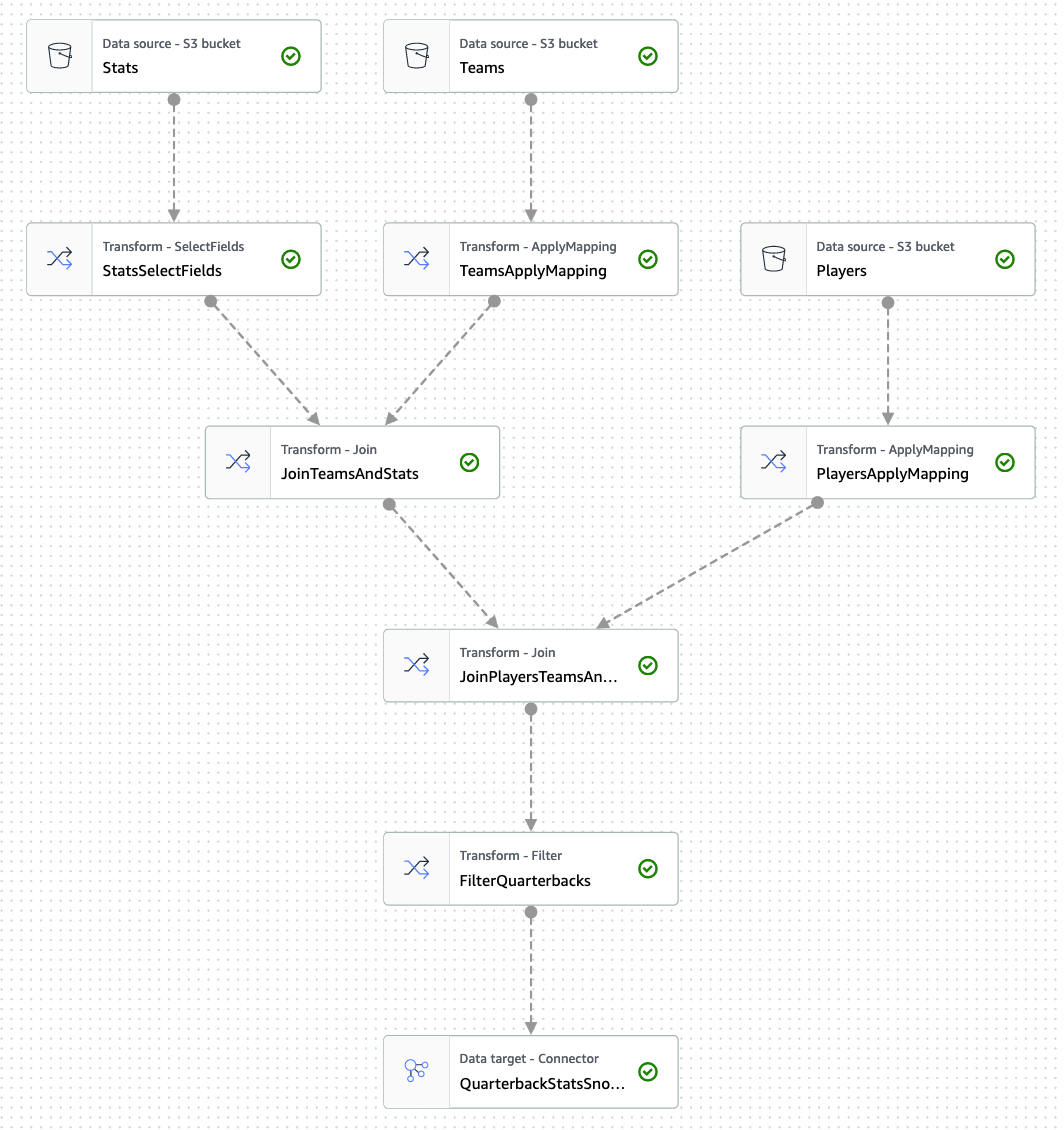
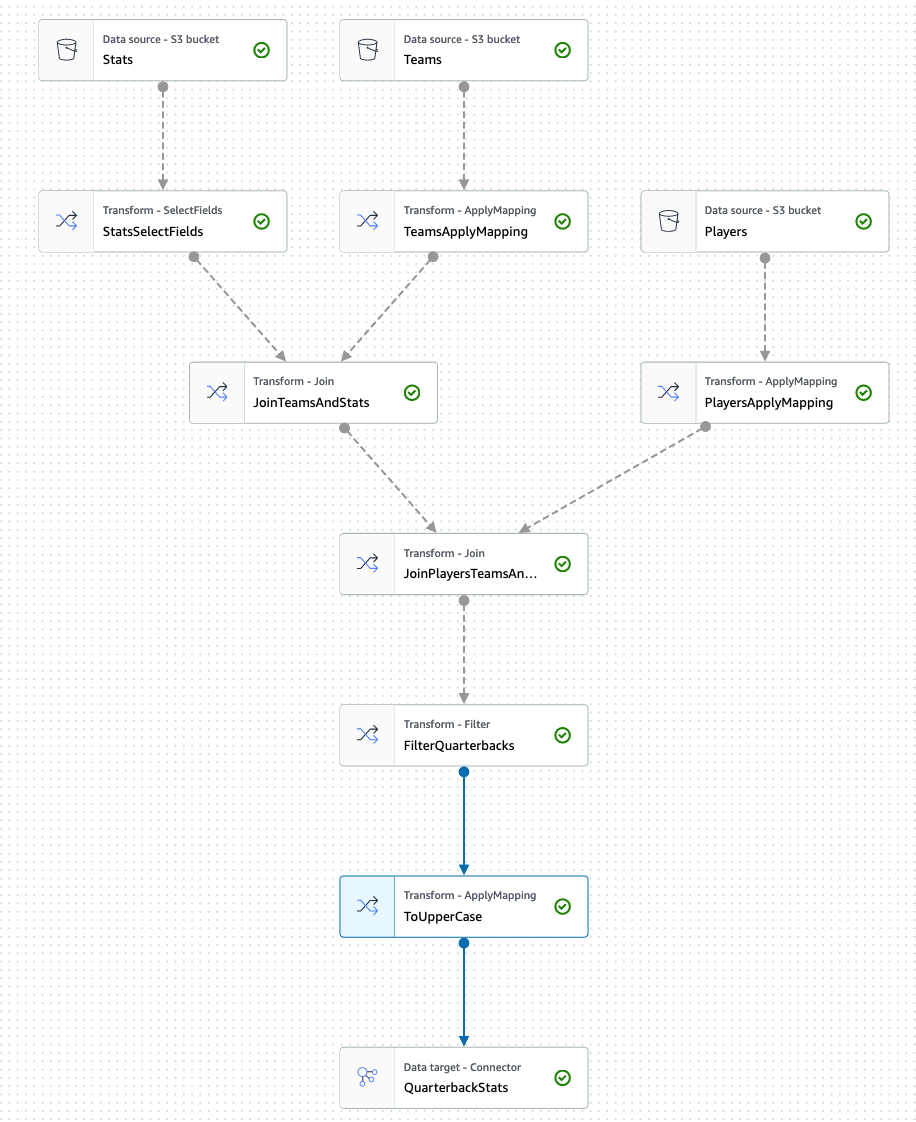
Update Transform data for Snowflake needed uppercase

Changed region(s): [[0.0, 0.0, 0.9782, 0.9982], [0.4279, 0.3431, 0.4585, 0.3743]]

diff --git a/resources/code/infra/lib/glue-studio-snowflake-stack.ts b/resources/code/infra/lib/glue-studio-snowflake-stack.ts
@@ -25,8 +25,35 @@ export class GlueStudioSnowflakeStack extends cdk.Stack {
       ),
       managedPolicies: [
         iam.ManagedPolicy.fromAwsManagedPolicyName("service-role/AWSGlueServiceRole")
+      ],
+      inlinePolicies: {
+        LakeFormationPermissionPolicy: new iam.PolicyDocument({
+          statements: [
+            new iam.PolicyStatement({
+              effect: iam.Effect.ALLOW,
+              actions: [
+                "lakeformation:GetDataAccess",
+                "lakeformation:GrantPermissions"
+              ],
+              resources: [
+                "*"
+              ]
+            })
+          ]
+      })}
+    });
+
+    const passGlueRolePolicy = new iam.PolicyStatement({
+      effect: iam.Effect.ALLOW,
+      actions: [
+        'iam:PassRole'
+      ],
+      resources: [
+        glueRole.roleArn
       ]
     });
+
+    glueRole.addToPolicy(passGlueRolePolicy);
 
     new cdk.CfnOutput(this, 'GlueRole', { value: glueRole.roleArn })
 
@@ -102,7 +129,7 @@ export class GlueStudioSnowflakeStack extends cdk.Stack {
         "CONNECTOR_CLASS_NAME": "net.snowflake.client.jdbc.SnowflakeDriver",
         "CONNECTOR_TYPE": "Jdbc",
         "CONNECTOR_URL": "s3://" + workingBucket.bucketName + "/" + props.jdbcDriver,
-        "JDBC_CONNECTION_URL": "[[\"default=jdbc:snowflake://" + props.snowflakeAccount + "." + cdk.Aws.REGION + ".snowflakecomputing.com/?user=${Username}&password=${Password}&warehouse=${warehouse}\"],\"&\"]"
+        "JDBC_CONNECTION_URL": "[[\"default=jdbc:snowflake://" + props.snowflakeAccount + "." + cdk.Aws.REGION + ".aws.snowflakecomputing.com/?user=${Username}&password=${Password}&warehouse=${warehouse}\"],\"&\"]"
       }
     });
 

diff --git a/workshop/content/TransformData/BuildETL.en.md b/workshop/content/TransformData/BuildETL.en.md
@@ -125,15 +125,26 @@ Now that you have the S3 target setup you can jump down to the Job Details secti
 
 #### Snowflake
 
+For Snowflake, we need to do one more transformation before sending the data set to Snowflake. All Columns in the data set need to be upper case in order for the insert to succeed. So we need to create one more **Apply Mapping** transform to make all columns uppercase.
+
+From the **Transform** dropdown select the `Apply Mapping` transform.
+
+* On the **Node Properties** tab select the following:
+  * **Name** type `ToUpperCase`
+  * **Node parents** select the `FilterQuarterbacks` node.
+* On the **Transform** tab each column needs to be upper case for example, `pass_yds` would be converted to `PASS_YDS`. Each column needs to be modified in the **Target Key** textbox and the **Data Type** can be left alone.
+
+Now that we have set the columns appropriately we can create the target to Snowflake.
+
 From the **Target** dropdown select the `snowflake-jdbc-glue-connector` target.
 
 * On the **Node Properties** tab select the following:
   * **Name** type `QuarterbackStatsSnowflake`
   * **Node type** if not selected select `snowflake-jdbc-glue-connector`
-  * **Node parents** select the `FilterQuarterbacks` node.
+  * **Node parents** select the `ToUpperCase` node.
 * On the **Data target properties** tab we are to perist to Snowflake.
   * **Connection** select the connection you created earlier named `snowflake-jdbc-glue-connection`.
-  * **Table** type `quarterback_stats` in the textbox.
+  * **Table** type `QUARTERBACK_STATS` in the textbox.
 
 ![Snowflake](/images/glue-snowflake-target.png)
 
@@ -230,7 +241,7 @@ Transform2 = Filter.apply(frame = Transform5, f = lambda row : (row["p_positioni
 ## @args: [connection_type = "custom.jdbc", connection_options = {"dbTable":"quarterback_stats","connectionName":"snowflake-jdbc-glue-connection"}, transformation_ctx = "DataSink0"]
 ## @return: DataSink0
 ## @inputs: [frame = Transform2]
-DataSink0 = glueContext.write_dynamic_frame.from_options(frame = Transform2, connection_type = "custom.jdbc", connection_options = {"dbTable":"quarterback_stats","connectionName":"snowflake-jdbc-glue-connection"}, transformation_ctx = "DataSink0")
+DataSink0 = glueContext.write_dynamic_frame.from_options(frame = Transform2, connection_type = "custom.jdbc", connection_options = {"dbTable":"QUARTERBACK_STATS","connectionName":"snowflake-jdbc-glue-connection"}, transformation_ctx = "DataSink0")
 job.commit()
 
 ```

diff --git a/workshop/content/ManageData/AssignPermissions.en.md b/workshop/content/ManageData/AssignPermissions.en.md
@@ -27,7 +27,7 @@ Starting where we left off in the last section, we want to see if our current us
 
 ![AthenaError](/images/athena-lf-error.png)
 
-3. Let's work on fixing this for the `players` table first and then we can apply the same concepts to the `teams` and `stats` tables to make them available to be queried. With the radio button on the `players` row selected drop down the **Action** dropdown button again, but this time under the **Permissions** section click `Grant`. This will bring up the dialog to grant access to the table for your user like below. For the **IAM Users and Roles** dropdown select the role `FILLINTHEBLANK`, and in the **Table Permissions** section check the `Select` and `Describe` checkboxes to give read access to the table.
+3. Let's work on fixing this for the `players` table first and then we can apply the same concepts to the `teams` and `stats` tables to make them available to be queried. With the radio button on the `players` row selected drop down the **Action** dropdown button again, but this time under the **Permissions** section click `Grant`. This will bring up the dialog to grant access to the table for your user like below. For the **IAM Users and Roles** dropdown select the role `FILLINTHEBLANK` and the `GlueExecutionRole` from the CDK script, and in the **Table Permissions** section check the `Select` and `Describe` checkboxes to give read access to the table.
 
 ![GrantComplete](/images/lf-grant-complete.png)
 

diff --git a/workshop/content/Setup/SnowflakeSetup.en.md b/workshop/content/Setup/SnowflakeSetup.en.md
@@ -1,0 +1,9 @@
++++
+copyright = "Copyright Amazon.com, Inc. or its affiliates. All Rights Reserved."
+spdx-license-identifier = "CC-BY-SA-4.0"
+title = "Event Engine"
+date = 2019-09-09T17:42:10+01:00
+weight = 1
++++
+
+## (Optional) Setting up Snowflake.
